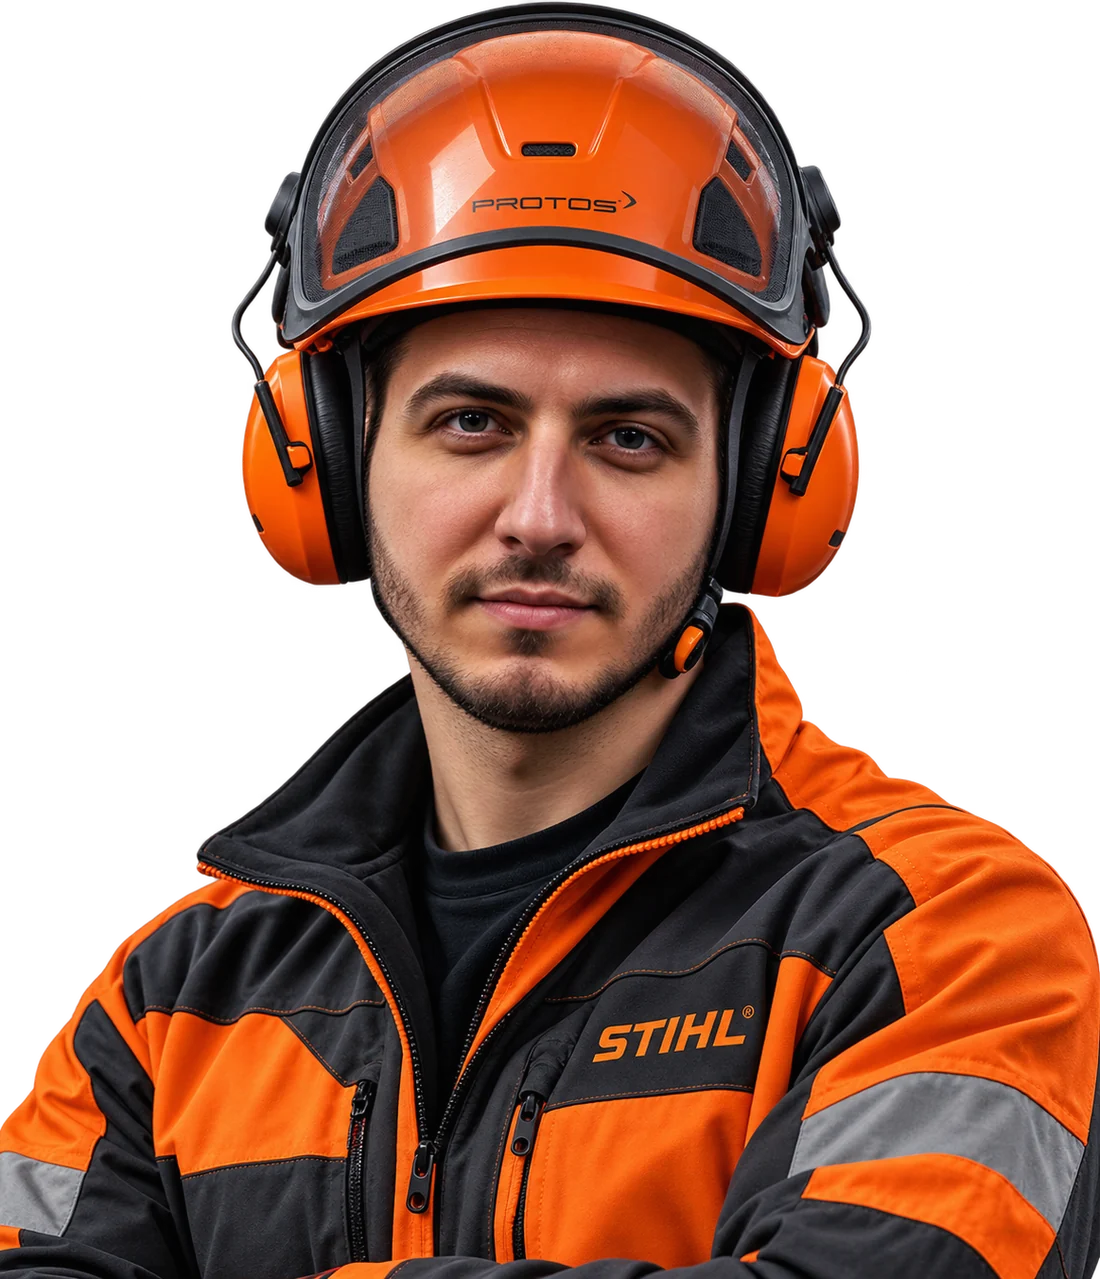
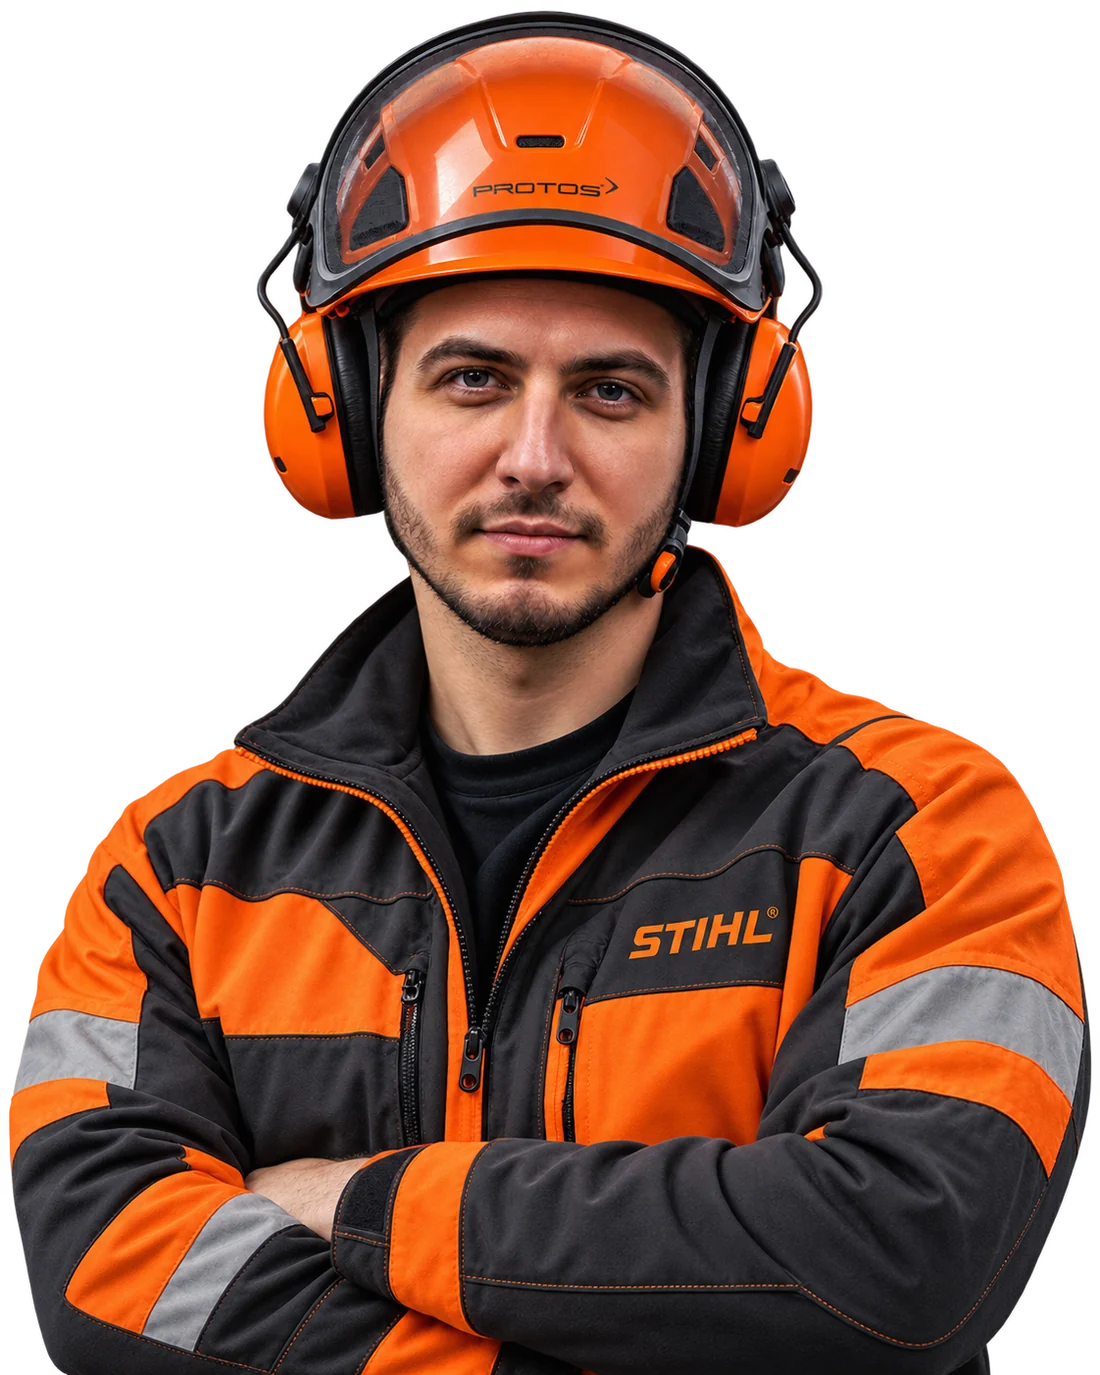
Nowe ujęcie w pierwszym ekranie + naprawa łamania nagłówków
Zdjęcie: szerszy kadr ze skrzyżowanymi rękami, ten sam układ.
assets/img/hero-worker.webp 1100x1375, 199 KB; height w <img>
zaktualizowane, żeby nie było przeskoku układu przy ładowaniu.

Przy okazji wyszedł błąd: nagłówek hero łamał się czasem na trzy
wiersze przy szerokich ekranach. Powód - max-width w jednostce ch.
ch liczy się względem aktualnie dostępnego kroju: "0" w Oswaldzie ma
0.55em, w zapasowym Arial Narrow 0.46em. Gdy fallback wygrywał wyścig
z ładowaniem fontu, max-width zatrzymywał się na 429px zamiast 517px
i wymuszał dodatkowy wiersz.

Wszystkie max-width na nagłówkach w kroju display przeliczone na em
(niezależne od metryk fontu):
  .hero h1 12ch -> 6.6em, 20ch -> 11em
  .manifesto p 33ch -> 18.15em
  .split__item h2 18ch -> 9.9em
  .cta h2 25ch -> 13.75em
  .step__body h3 20ch -> 11em
  .final h2 15ch -> 8.25em

Dziewięć kolejnych przebiegów na 1920/1600/1440 daje ten sam wynik;
26 nagłówków sprawdzonych na 1920, 1440 i 390. Szerokości w ch dla
tekstu ciągłego zostają - tam ch jest właściwą jednostką.

diff --git a/index.html b/index.html
@@ -361,7 +361,7 @@ p{margin:0}
 .hero__pill p{font-size:.9375rem;color:rgba(255,255,255,.86);letter-spacing:.01em}
 .hero__pill b{font-family:var(--f-display);font-weight:600;font-size:1.05rem;letter-spacing:.02em}
 
-.hero h1{margin-bottom:1.35rem;max-width:12ch}
+.hero h1{margin-bottom:1.35rem;max-width:6.6em}
 .hero__sub{
   max-width:34rem;margin-bottom:2.1rem;
   font-size:clamp(1rem,1.15vw,1.125rem);line-height:1.7;
@@ -377,7 +377,7 @@ p{margin:0}
 .manifesto p{
   font-family:var(--f-display);font-weight:700;text-transform:uppercase;
   font-size:clamp(1.5rem,3.1vw,3rem);line-height:1.16;letter-spacing:-.025em;
-  max-width:33ch;margin-inline:auto;
+  max-width:18.15em;margin-inline:auto;
 }
 
 /* ==========================================================================
@@ -398,7 +398,7 @@ p{margin:0}
   background:linear-gradient(to top,rgba(13,13,12,.88),rgba(13,13,12,.58));
   transition:opacity .6s var(--ease-soft);
 }
-.split__item h2{color:#fff;font-size:clamp(1.6rem,2.9vw,2.75rem);letter-spacing:-.02em;text-wrap:balance;max-width:18ch}
+.split__item h2{color:#fff;font-size:clamp(1.6rem,2.9vw,2.75rem);letter-spacing:-.02em;text-wrap:balance;max-width:9.9em}
 .split__sub{
   display:grid;grid-template-rows:1fr;opacity:1;margin-top:1.1rem;
   transition:grid-template-rows .55s var(--ease),opacity .4s var(--ease-soft),margin-top .55s var(--ease);
@@ -491,7 +491,7 @@ p{margin:0}
 .cta__media::before{content:"";position:absolute;inset:0;z-index:2;background:linear-gradient(to top,rgba(22,22,21,.5),transparent 58%)}
 .cta__media::after{content:"";position:absolute;inset:0;z-index:1;background:var(--brand);mix-blend-mode:multiply;opacity:.1}
 .cta__body{padding-right:1.5rem}
-.cta h2{margin-bottom:1.1rem;max-width:25ch}
+.cta h2{margin-bottom:1.1rem;max-width:13.75em}
 .cta__actions{display:flex;align-items:center;gap:1.5rem;flex-wrap:wrap;margin-top:2rem}
 .cta__tel{display:flex;align-items:center;gap:.9rem}
 .cta__tel .ring{width:52px;height:52px;border-radius:50%;border:1px solid var(--line-dark);display:grid;place-items:center;flex:none;transition:background-color .35s,border-color .35s}
@@ -586,7 +586,7 @@ p{margin:0}
 .step:hover{border-color:rgba(243,122,31,.34);box-shadow:var(--sh-2)}
 .step__n{font-family:var(--f-display);font-weight:700;font-size:2rem;color:var(--brand);line-height:1;letter-spacing:-.02em;margin-bottom:auto}
 .step__body{display:flex;flex-direction:column;min-height:270px}
-.step__body h3{font-size:clamp(1.4rem,2vw,2rem);margin:2rem 0 .75rem;letter-spacing:-.015em;max-width:20ch}
+.step__body h3{font-size:clamp(1.4rem,2vw,2rem);margin:2rem 0 .75rem;letter-spacing:-.015em;max-width:11em}
 .step__body > p{font-size:.9375rem;color:var(--text-muted);line-height:1.65;max-width:52ch}
 .step__meta{display:flex;flex-wrap:wrap;gap:1.5rem;margin:1.4rem 0 1.6rem}
 .step__meta li{display:flex;align-items:center;gap:.5rem;font-size:.9375rem;color:var(--text-muted)}
@@ -734,7 +734,7 @@ p{margin:0}
   content:"";position:absolute;inset:0;z-index:-1;
   background:radial-gradient(76% 86% at 12% 100%,rgba(243,122,31,.32),transparent 64%);
 }
-.final h2{color:#fff;max-width:15ch;margin-inline:auto}
+.final h2{color:#fff;max-width:8.25em;margin-inline:auto}
 .final__lead{
   margin:1.35rem auto 0;max-width:44ch;
   font-size:clamp(1rem,1.2vw,1.125rem);line-height:1.65;color:rgba(255,255,255,.76);
@@ -848,7 +848,7 @@ p{margin:0}
 @media (max-width:980px){
   .hero__photo{right:-6%;top:auto;bottom:0;height:74%;opacity:.46}
   .hero__in{min-height:min(80vh,760px)}
-  .hero h1{max-width:20ch}
+  .hero h1{max-width:11em}
   .stats{grid-template-columns:repeat(2,1fr);gap:2.5rem}
   .bento{grid-template-columns:1fr 1fr}
   .bento__mid{grid-column:auto;grid-row:auto;grid-template-rows:auto auto}
@@ -1084,7 +1084,7 @@ p{margin:0}
     </svg>
   </div>
   <div class="hero__photo">
-    <img src="assets/img/hero-worker.webp" width="1100" height="1279" alt="Arborysta Denwara w pomarańczowym kasku ochronnym z osłoną twarzy i ochronnikami słuchu" fetchpriority="high">
+    <img src="assets/img/hero-worker.webp" width="1100" height="1375" alt="Arborysta Denwara w pomarańczowym kasku ochronnym z osłoną twarzy i ochronnikami słuchu" fetchpriority="high">
   </div>
 
   <div class="shell hero__in">
